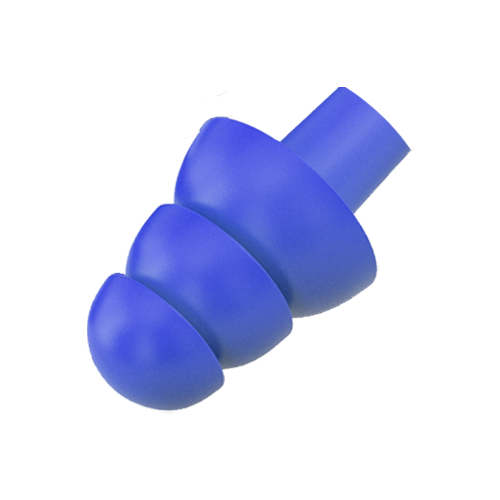
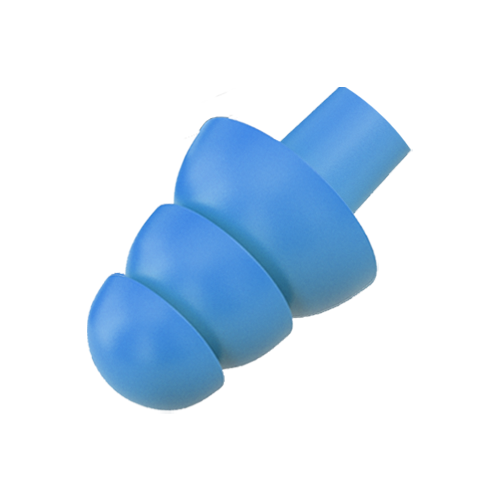
Added more colors on the Colors page

Changed region(s): [[0.15, 0.15, 0.81, 0.81]]

diff --git a/colors.html b/colors.html
@@ -21,115 +21,79 @@
 
 <body>
 
-    <!-- Size gallery -->
+    <!-- Color gallery -->
 
     <div class="gallery">
 
         <div class="content">
-            <img  class="regular" src="images/regular_orange.png">
+            <img class="regular" src="images/regular_orange.png">
             <h3>Orange</h3>
-            <p>Short acoustic filter tube</p>
-            <h6>€15,00</h6>
-            <ul>
-                <li><i class="fa fa-record-vinyl checked"></i></li>
-                <li><i class="fa fa-record-vinyl checked"></i></li>
-                <li><i class="fa fa-record-vinyl checked"></i></li>
-                <li><i class="fa fa-record-vinyl checked"></i></li>
-                <li><i class="fa fa-record-vinyl checked"></i></li>
-                <li><i class="fa fa-record-vinyl"></i></li>
-            </ul>
-            <div class="speechclarity">Speech Clarity</div>
-            <ul>
-                <li><i class="fa fa-record-vinyl checked"></i></li>
-                <li><i class="fa fa-record-vinyl checked"></i></li>
-                <li><i class="fa fa-record-vinyl"></i></li>
-                <li><i class="fa fa-record-vinyl"></i></li>
-                <li><i class="fa fa-record-vinyl"></i></li>
-                <li><i class="fa fa-record-vinyl"></i></li>
-            </ul>
-            <div class="musicdampening">Music Dampening</div>
+            <p>Sunset Orange</p>
             <button class="buy-1" id="sizeButton">Select size</button>
-
         </div>
 
         <div class="content">
-            <img  class="regular" src="images/regular_pink.png">
-            <h3>Pink</h3>
-            <p>Regular acoustic filter tube</p>
-            <h6>€15,00</h6>
-            <ul>
-                <li><i class="fa fa-record-vinyl checked"></i></li>
-                <li><i class="fa fa-record-vinyl checked"></i></li>
-                <li><i class="fa fa-record-vinyl checked"></i></li>
-                <li><i class="fa fa-record-vinyl"></i></li>
-                <li><i class="fa fa-record-vinyl"></i></li>
-                <li><i class="fa fa-record-vinyl"></i></li>
-            </ul>
-            <div class="speechclarity">Speech Clarity</div>
-            <ul>
-                <li><i class="fa fa-record-vinyl checked"></i></li>
-                <li><i class="fa fa-record-vinyl checked"></i></li>
-                <li><i class="fa fa-record-vinyl checked"></i></li>
-                <li><i class="fa fa-record-vinyl"></i></li>
-                <li><i class="fa fa-record-vinyl"></i></li>
-                <li><i class="fa fa-record-vinyl"></i></li>
-            </ul>
-            <div class="musicdampening">Music Dampening</div>
-            <button class="buy-2" id="sizeButton2">Select size</button>
-        </div>
-
-        <div class="content">
-            <img  class="regular" src="images/regular_blue.png">
-            <h3>Blue</h3>
-            <p>Long acoustic filter tube</p>
-            <h6>€15,00</h6>
-            <ul>
-                <li><i class="fa fa-record-vinyl checked"></i></li>
-                <li><i class="fa fa-record-vinyl checked"></i></li>
-                <li><i class="fa fa-record-vinyl"></i></li>
-                <li><i class="fa fa-record-vinyl"></i></li>
-                <li><i class="fa fa-record-vinyl"></i></li>
-                <li><i class="fa fa-record-vinyl"></i></li>
-            </ul>
-            <div class="speechclarity">Speech Clarity</div>
-            <ul>
-                <li><i class="fa fa-record-vinyl checked"></i></li>
-                <li><i class="fa fa-record-vinyl checked"></i></li>
-                <li><i class="fa fa-record-vinyl checked"></i></li>
-                <li><i class="fa fa-record-vinyl checked"></i></li>
-                <li><i class="fa fa-record-vinyl"></i></li>
-                <li><i class="fa fa-record-vinyl"></i></li>
-            </ul>
-            <div class="musicdampening">Music Dampening</div>
-            <button class="buy-3" id="sizeButton3">Select size</button>
-        </div>
-
-        <div class="content">
-            <img  class="regular" src="images/regular_red.png">
+            <img class="regular" src="images/regular_red.png">
             <h3>Red</h3>
-            <p>Extra long acoustic filter tube</p>
-            <h6>€15,00</h6>
-            <ul>
-                <li><i class="fa fa-record-vinyl checked"></i></li>
-                <li><i class="fa fa-record-vinyl"></i></li>
-                <li><i class="fa fa-record-vinyl"></i></li>
-                <li><i class="fa fa-record-vinyl"></i></li>
-                <li><i class="fa fa-record-vinyl"></i></li>
-                <li><i class="fa fa-record-vinyl"></i></li>
-            </ul>
-            <div class="speechclarity">Speech Clarity</div>
-            <ul>
-                <li><i class="fa fa-record-vinyl checked"></i></li>
-                <li><i class="fa fa-record-vinyl checked"></i></li>
-                <li><i class="fa fa-record-vinyl checked"></i></li>
-                <li><i class="fa fa-record-vinyl checked"></i></li>
-                <li><i class="fa fa-record-vinyl checked"></i></li>
-                <li><i class="fa fa-record-vinyl"></i></li>
-            </ul>
-            <div class="musicdampening">Music Dampening</div>
-            <button class="buy-4" id="sizeButton4">Select size</button>
+            <p>Canyon Red</p>
+            <button class="buy-1" id="sizeButton">Select size</button>
         </div>
 
+        <div class="content">
+            <img class="regular" src="images/regular_pink.png">
+            <h3>Pink</h3>
+            <p>Coral Reef Pink</p>
+            <button class="buy-1" id="sizeButton">Select size</button>
+        </div>
+
+        <div class="content">
+            <img class="regular" src="images/regular_blue.png">
+            <h3>Blue</h3>
+            <p>Mountain Mist Blue</p>
+            <button class="buy-1" id="sizeButton">Select size</button>
+        </div>
+
+        <div class="content">
+            <img class="regular" src="images/regular_gold.png">
+            <h3>Gold</h3>
+            <p>Cheetah Gold</p>
+            <button class="buy-1" id="sizeButton">Select size</button>
+        </div>
+
+        <div class="content">
+            <img class="regular" src="images/regular_green.png">
+            <h3>Green</h3>
+            <p>Wilderness Green</p>
+            <button class="buy-1" id="sizeButton">Select size</button>
+        </div>
+
+        <div class="content">
+            <img class="regular" src="images/regular_purple.png">
+            <h3>Purple</h3>
+            <p>Jellyfish Purple</p>
+            <button class="buy-1" id="sizeButton">Select size</button>
+        </div>
+
+        <div class="content">
+            <img class="regular" src="images/regular_yellow.png">
+            <h3>Yellow</h3>
+            <p>Butterfly Yellow</p>
+            <button class="buy-1" id="sizeButton">Select size</button>
+        </div>
+
+        <div class="content">
+            <img class="regular" src="images/regular_gray.png">
+            <h3>Gray</h3>
+            <p>Stone Path Gray</p>
+            <button class="buy-1" id="sizeButton">Select size</button>
+        </div>
+
+        <div class="content">
+            <img class="regular" src="images/regular_brent.png">
+            <h3>Brent</h3>
+            <p>Why not?</p>
+            <button class="buy-1" id="sizeButton">Select size</button>
+        </div>
     </div>
 
     <!-- Navigation bar -->
